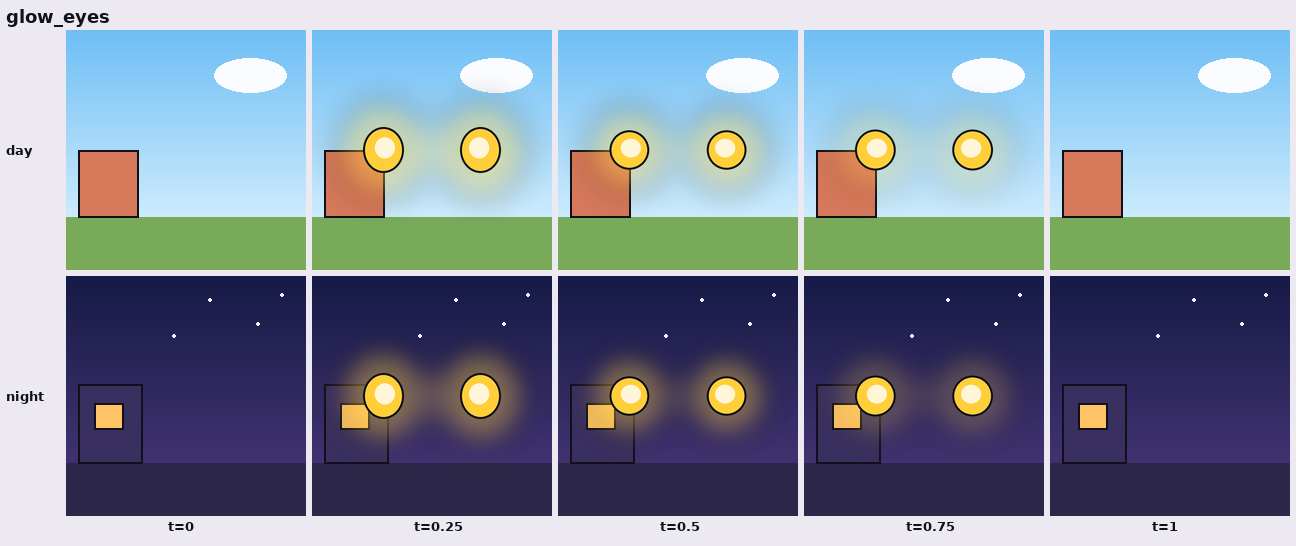
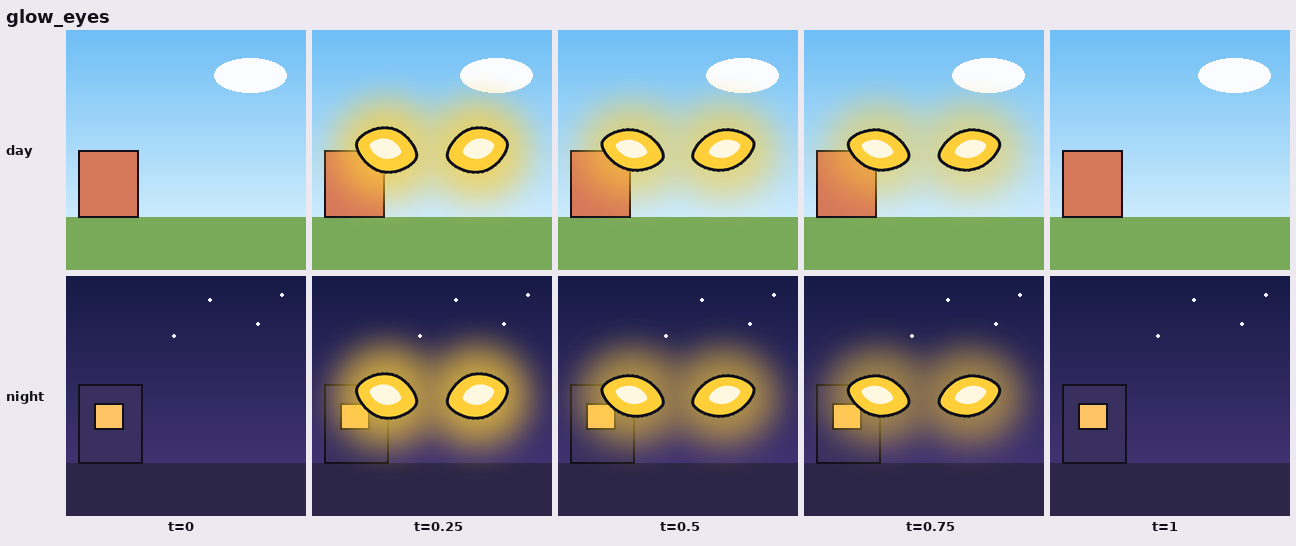
fx: review round 1 fixes (almond glow eyes, shrink-first fades, throbs, ordered speed lines, halo blur)
Claude-Session: https://claude.ai/code/session_01CUE843qry1EHijK4cNMuJ6

Changed region(s): [[0.2469, 0.5916, 0.8025, 0.8407], [0.2469, 0.1557, 0.8025, 0.3736]]

diff --git a/fx/fx.py b/fx/fx.py
@@ -170,7 +170,7 @@ def fx_explosion(t, n, u, e, kw):
     k = pop(t, 0.13, 0.34, pre=0.22, dip=0.12, s=1.4)
     cool = smooth(seg(t, 0.36, 0.78))                       # fire -> smoke
     rise = u * 0.32 * smooth(seg(t, 0.3, 1.0))
-    out = fade(t, 0.72, 1.0)
+    out = fade(t, 0.84, 1.0)
     body = mixc(col, smoke, cool)
     puffs = []
     m = 9
@@ -211,8 +211,9 @@ def fx_impact_star(t, n, u, e, kw):
     cx, cy = n / 2, n / 2
     k = pop(t, 0.1, 0.28, pre=0.3, dip=0.16, s=2.4)
     k *= 1 + 0.05 * math.sin(2 * math.pi * seg(t, 0.28, 0.6) * 2) * fade(t, 0.4, 0.6)   # settling throb
-    k *= shrink(t, 0.62, 1.0)
-    ang = kw.get('angle', 0) + 14 * (1 - out_cubic(seg(t, 0.1, 0.5))) - 6 * smooth(seg(t, 0.6, 1))
+    k *= 1 - 0.12 * smooth(seg(t, 0.35, 0.7))              # slow settle during the hold: never a frozen sprite
+    k *= shrink(t, 0.68, 0.98)
+    ang = kw.get('angle', 0) + 14 * (1 - out_cubic(seg(t, 0.1, 0.5))) - 12 * smooth(seg(t, 0.3, 1))
     jit = [rng.uniform(0.78, 1.0) for _ in range(pts_n)]
     outer = ('p', star_pts(cx, cy, pts_n, u * 0.78 * k, u * 0.36 * k, ang, jit), col)
     core = ('p', star_pts(cx, cy, pts_n, u * 0.42 * k, u * 0.2 * k, ang, jit), inner)
@@ -228,7 +229,7 @@ def fx_impact_star(t, n, u, e, kw):
             ticks.append(('s', [(cx + math.cos(a) * tl, cy + math.sin(a) * tl, w * 0.4),
                                 (cx + math.cos(a) * h, cy + math.sin(a) * h, w)], col))
     comp(im, group(n, ticks, e * 0.8))
-    comp(im, group(n, [outer], ink_w(e, k), details=[core], alpha=fade(t, 0.82, 1.0) * clamp(t / 0.03)))
+    comp(im, group(n, [outer], ink_w(e, k), details=[core], alpha=fade(t, 0.92, 1.0) * clamp(t / 0.03)))
     return im
 
 
@@ -266,7 +267,7 @@ def fx_speed_lines(t, n, u, e, kw):
     lines = []
     for i in range(cnt):
         y = cy + u * 0.85 * ((i + 0.5) / cnt * 2 - 1) + u * rng.uniform(-0.05, 0.05)
-        d0 = 0.03 + 0.25 * rng.random()
+        d0 = 0.03 + 0.12 * abs((i + 0.5) / cnt * 2 - 1) + 0.03 * rng.random()   # one ordered wave, middle first
         p = seg(t, d0, d0 + 0.68)
         if not 0 < p < 1: continue
         L = u * rng.uniform(1.1, 1.7)
@@ -275,7 +276,7 @@ def fx_speed_lines(t, n, u, e, kw):
         head = x0 - L * in_cubic(p)                         # tail end chases the head -> line grows then retracts
         tail = x0 - L * out_cubic(p) * 1.0
         a, b = (head, tail) if head > tail else (tail, head)
-        w = u * rng.uniform(0.05, 0.085) * bump(p) ** 0.5
+        w = u * rng.uniform(0.085, 0.12) * bump(p) ** 0.5
         lines.append(('s', [(b, y, w * 0.25), (a, y, w)], col))
     lay = group(n, lines, e)
     if ang: lay = lay.rotate(ang, resample=Image.BICUBIC, center=(cx * S, cy * S))
@@ -298,25 +299,27 @@ def fx_sweat_drop(t, n, u, e, kw):
     flip = -1 if kw.get('flip', False) else 1
     k = pop(t, 0.12, 0.3, pre=0.4, dip=0.3, s=2.0)
     wob = 0.06 * math.sin(2 * math.pi * 2.5 * seg(t, 0.3, 0.55)) * fade(t, 0.35, 0.55)
-    slide = in_quad(seg(t, 0.5, 0.92))
-    stretch = 0.3 * bump(seg(t, 0.55, 1.0))
-    sx = (1 + wob - 0.15 * stretch) * k * shrink(t, 0.78, 1.0)
-    sy = (1 - wob + stretch) * k * shrink(t, 0.78, 1.0)
+    creep = 0.12 * smooth(seg(t, 0.28, 0.45))               # slow creep while it gathers weight
+    slide = creep + 0.88 * in_quad(seg(t, 0.45, 0.9))
+    hold = 0.12 * bump(seg(t, 0.36, 0.48))                  # squash wide just before it lets go (anticipation)
+    stretch = 0.32 * bump(seg(t, 0.46, 1.0))
+    sx = (1 + wob + hold - 0.15 * stretch) * k * shrink(t, 0.8, 0.98)
+    sy = (1 - wob - hold + stretch) * k * shrink(t, 0.8, 0.98)
     cx = n / 2 + flip * u * 0.12 * slide
-    cy = n / 2 - u * 0.25 + u * 0.75 * slide
+    cy = n / 2 - u * 0.3 + u * 0.75 * slide
     r = u * 0.3
     body = ('p', teardrop(cx, cy, r, r * 2.2, ang=flip * -12 * slide, sx=sx, sy=sy), col)
     hl = ('e', cx - r * 0.38 * sx, cy - r * 0.15 * sy, r * 0.17 * sx, r * 0.3 * sy, light(col, 0.75))
-    return group(n, [body], ink_w(e, k), details=[hl], alpha=fade(t, 0.85, 1.0) * clamp(t / 0.03))
+    return group(n, [body], ink_w(e, k), details=[hl], alpha=fade(t, 0.92, 1.0) * clamp(t / 0.03))
 
 
 def fx_anger_vein(t, n, u, e, kw):
     col = rgb(kw.get('color', '#ff3b4a'))
     cx, cy = n / 2, n / 2
     k = pop(t, 0.1, 0.27, pre=0.35, dip=0.2, s=2.2)
-    for pk in (0.42, 0.62):                                 # two throbs
-        k *= 1 + 0.16 * bump(seg(t, pk - 0.06, pk + 0.08)) ** 2
-    k *= shrink(t, 0.76, 1.0)
+    for pk in (0.4, 0.55, 0.7):                             # three throbs through the hold
+        k *= 1 + 0.15 * bump(seg(t, pk - 0.05, pk + 0.07)) ** 2
+    k *= shrink(t, 0.78, 0.98)
     jit = 4 * math.sin(t * 60) * bump(seg(t, 0.3, 0.75))
     strokes = []
     R = u * 0.7 * k
@@ -329,39 +332,52 @@ def fx_anger_vein(t, n, u, e, kw):
         pts = bez(p0, p1, p2, 28)
         w = u * 0.17 * k
         strokes.append(('s', [(x, y, w * (0.55 + 0.45 * bump(i / 28))) for i, (x, y, _) in enumerate(pts)], col))
-    return group(n, strokes, ink_w(e, k), alpha=fade(t, 0.86, 1.0) * clamp(t / 0.03))
+    return group(n, strokes, ink_w(e, k), alpha=fade(t, 0.92, 1.0) * clamp(t / 0.03))
+
+
+def almond(cx, cy, rx, ry, ang, n=40):
+    """Eye shape: two arcs meeting in points at the corners (pointed ends read as eyes, not coins)."""
+    pts = []
+    for i in range(n):
+        a = 2 * math.pi * i / n
+        x = rx * math.cos(a); y = ry * math.sin(a) * (abs(math.sin(a)) ** 0.15) * (1 - 0.18 * math.cos(a) ** 2)
+        pts.append(rot(cx + x, cy + y, cx, cy, ang))
+    return pts
 
 
 def fx_glow_eyes(t, n, u, e, kw):
     col = rgb(kw.get('color', '#ffcf3a'))
-    gap = kw.get('gap', 0.45) * u
-    r = kw.get('radius', 0.17) * u
+    gap = kw.get('gap', 0.42) * u
+    r = kw.get('radius', 0.27) * u                          # half-width of each eye
+    slant = kw.get('slant', 14)                             # inner corners low = menacing; 0 = neutral, <0 = sad
     cx, cy = n / 2, n / 2
     # eyelid: a slit opens a little, blinks shut (anticipation), then snaps open with overshoot
     if t < 0.1: o = 0.2 * smooth(t / 0.1)
     elif t < 0.16: o = lerp(0.2, 0.06, smooth(seg(t, 0.1, 0.16)))
     else: o = lerp(0.06, 1, out_back(seg(t, 0.16, 0.34), 2.2))
-    o *= shrink(t, 0.76, 0.96) if t < 0.96 else 0
-    o = max(o, 0)
-    flick = 1 + 0.04 * math.sin(t * 47) * bump(seg(t, 0.34, 0.76))
-    glow = clamp(t / 0.12) * (0.55 + 0.45 * bump(seg(t, 0.22, 0.6)) + 0.25 * bump(seg(t, 0.16, 0.3))) * fade(t, 0.7, 1.0)
+    o = max(0.0, o * shrink(t, 0.78, 0.97)) if t < 0.97 else 0.0
+    pulse = bump(seg(t, 0.34, 0.76) * 3 % 1) * (0.34 < t < 0.76)   # three slow glow pulses during the hold
+    flick = 1 + 0.05 * pulse
+    glow = clamp(t / 0.12) * (0.7 + 0.3 * pulse + 0.3 * bump(seg(t, 0.16, 0.32))) * fade(t, 0.72, 0.98)
     im = new(n)
-    # halo: soft blurred colour around both eyes (warm by default, DRAWING_RULES 19)
     halo = new(n); hd = ImageDraw.Draw(halo)
-    for s in (-1, 1):
-        x = cx + s * gap
-        for f, a in ((2.6, 70), (1.7, 120)):
-            hr = r * f * (0.7 + 0.3 * o) * flick
-            hd.ellipse(((x - hr) * S, (cy - hr * (0.55 + 0.45 * o)) * S, (x + hr) * S, (cy + hr * (0.55 + 0.45 * o)) * S),
+    for s_ in (-1, 1):
+        x = cx + s_ * gap
+        for f, a in ((2.0, 110), (1.35, 190)):
+            hr = r * f * flick
+            hd.ellipse(((x - hr) * S, (cy - hr * (0.4 + 0.5 * o)) * S, (x + hr) * S, (cy + hr * (0.4 + 0.5 * o)) * S),
                        fill=col + (a,))
-    halo = halo.filter(ImageFilter.GaussianBlur(r * 0.7 * S))
+    # blur only the alpha and keep the colour solid: blurring straight RGBA drags in black from empty pixels (grey smudge)
+    mask = halo.getchannel('A').filter(ImageFilter.GaussianBlur(r * 0.45 * S))
+    halo = Image.new('RGBA', halo.size, col + (0,)); halo.putalpha(mask)
     comp(im, opacity(halo, glow))
     eyes, cores = [], []
-    for s in (-1, 1):
-        x = cx + s * gap
-        eyes.append(('e', x, cy, r * flick, r * o * flick, col))
-        cores.append(('e', x - r * 0.08 * s, cy - r * 0.1 * o, r * 0.55, r * 0.5 * o, light(col, 0.8)))
-    comp(im, group(n, eyes, ink_w(e, o, 0.25), details=cores, alpha=clamp(t / 0.03) * fade(t, 0.9, 1.0)))
+    for s_ in (-1, 1):
+        x = cx + s_ * gap
+        ang = -s_ * slant
+        eyes.append(('p', almond(x, cy, r * flick, r * 0.62 * o * flick, ang), col))
+        cores.append(('p', almond(x + s_ * r * 0.04, cy - r * 0.04 * o, r * 0.55, r * 0.3 * o, ang), light(col, 0.85)))
+    comp(im, group(n, eyes, ink_w(e, o, 0.25), details=cores, alpha=clamp(t / 0.03) * fade(t, 0.94, 1.0)))
     return im
 
 
@@ -479,13 +495,21 @@ def fx_question_mark(t, n, u, e, kw):
     pts += [(x, y, w) for x, y, _ in bez(pts[-1][:2], (cx + u * 0.04, cy - u * 0.05), (cx, cy + u * 0.16), 16)[1:]]
     pts[0] = pts[0][:2] + (w * 0.9,)
     piv = (cx, cy + u * 0.75)
+    lift += u * 0.04 * math.sin(2 * math.pi * 1.5 * seg(t, 0.35, 0.85)) * bump(seg(t, 0.35, 0.85))
+    grow = smooth(seg(t, 0.08, 0.16))                       # glyph grows out of a round blob
     stroke = ('s', xform(pts, *piv, sx, sy, ang, k, 0, lift), col)
     kd = pop(t, 0.18, 0.38, pre=0.3, dip=0.2, s=2.4) * shrink(t, 0.8, 1.0)  # the dot lands a beat later (overlap)
     dx, dy = xform([(cx, cy + u * 0.52)], *piv, sx, sy, ang, 1, 0, lift)[0]
     dot = ('c', dx, dy, u * 0.12 * kd, col)
     hl = [('c', *xform([(hook_c[0] - R * 0.7, hook_c[1] - R * 0.55)], *piv, sx, sy, ang, k, 0, lift)[0], w * 0.18 * k,
            light(col, 0.6))]
-    return group(n, [stroke, dot], ink_w(e, k), details=hl, alpha=fade(t, 0.86, 1.0) * clamp(t / 0.03))
+    blob = []
+    if grow < 1:                                            # anticipation: a squashed ball, not a comma
+        bk = pop(t, 0.12, 0.32, pre=0.35, dip=0.25, s=2.0) * (1 - grow)
+        blob = [('e', cx, cy - u * 0.05 + lift, u * 0.32 * bk * sx, u * 0.32 * bk * sy, col)]
+        stroke = ('s', [(x, y, w_ * grow) for x, y, w_ in stroke[1]], col)
+        dot = ('c', dot[1], dot[2], dot[3] * grow, col)
+    return group(n, blob + [stroke, dot], ink_w(e, k), details=hl if grow >= 1 else [], alpha=fade(t, 0.93, 1.0) * clamp(t / 0.03))
 
 
 def fx_exclaim(t, n, u, e, kw):
@@ -497,7 +521,7 @@ def fx_exclaim(t, n, u, e, kw):
     ang = kw.get('tilt', -6) + 5 * math.sin(t * 70) * bump(seg(t, 0.28, 0.55))
     lift = -u * 0.15 * smooth(seg(t, 0.72, 1.0))
     piv = (cx, cy + u * 0.75)
-    bar = [(cx, cy - u * 0.62, u * 0.3), (cx, cy - u * 0.25, u * 0.24), (cx, cy + u * 0.18, u * 0.12)]
+    bar = [(cx, cy - u * 0.5, u * 0.28), (cx, cy - u * 0.15, u * 0.22), (cx, cy + u * 0.22, u * 0.11)]
     bar = ('s', xform(bar, *piv, sx, sy, ang, k, shake, lift), col)
     kd = pop(t, 0.16, 0.34, pre=0.3, dip=0.2, s=2.6) * shrink(t, 0.8, 1.0)
     dx, dy = xform([(cx, cy + u * 0.5)], *piv, sx, sy, ang, 1, shake, lift)[0]
@@ -515,7 +539,7 @@ def fx_exclaim(t, n, u, e, kw):
             ticks.append(('s', [(o[0] + math.cos(ar) * r0, o[1] + math.sin(ar) * r0, u * 0.03),
                                 (o[0] + math.cos(ar) * r1, o[1] + math.sin(ar) * r1, u * 0.08 * bump(p))], col))
     comp(im, group(n, ticks, e * 0.8))
-    comp(im, group(n, [bar, dot], ink_w(e, k), details=hl, alpha=fade(t, 0.86, 1.0) * clamp(t / 0.03)))
+    comp(im, group(n, [bar, dot], ink_w(e, k), details=hl, alpha=fade(t, 0.93, 1.0) * clamp(t / 0.03)))
     return im
 
 
@@ -545,17 +569,17 @@ def fx_music_note(t, n, u, e, kw):
     cx, by = n / 2, n / 2 + u * 0.7                        # notes rise from bottom centre (a mouth / speaker)
     im = new(n)
     for i in range(cnt):
-        d0 = 0.02 + 0.3 * i / max(1, cnt - 1); life = 0.66
+        d0 = 0.02 + 0.32 * i / max(1, cnt - 1); life = 0.64
         p = seg(t, d0, d0 + life)
         if not 0 < p < 1: continue
-        k = pop(p, 0.14, 0.36, pre=0.35, dip=0.25, s=2.0) * shrink(p, 0.7, 1.0)
+        k = pop(p, 0.14, 0.36, pre=0.35, dip=0.25, s=2.0) * shrink(p, 0.66, 0.98)
         side = (-1) ** i
-        x = cx + side * u * 0.2 + side * u * 0.25 * smooth(p) + u * 0.12 * math.sin(p * 2 * math.pi * 1.2 + i)
+        x = cx + side * u * (0.18 + 0.22 * (i // 2)) + side * u * 0.42 * smooth(p) + u * 0.08 * math.sin(p * 2 * math.pi * 1.2 + i)
         y = by - u * 1.1 * out_quad(p)
         ang = 14 * math.sin(p * 2 * math.pi * 1.2 + i + 1)
         h = u * 0.55 * k
         shp = note_shapes(x - h * 0.2, y, h, ang, rgb(cols[i % len(cols)]), double=(i % 2 == 1))
-        comp(im, group(n, shp, ink_w(e, k), alpha=fade(p, 0.8, 1.0)))
+        comp(im, group(n, shp, ink_w(e, k), alpha=fade(p, 0.9, 1.0)))
     return im
 
 
@@ -580,7 +604,7 @@ def render(name, t, size=512, **kw):
     if name not in NAMES: raise KeyError(f'unknown fx {name!r}; known: {", ".join(NAMES)}')
     n = int(size); t = clamp(float(t))
     u = n / 2 * 0.9 * kw.get('scale', 1.0)
-    e = kw.get('line', max(2.0, min(4.0, n / 160)))
+    e = kw.get('line', 3.0 if n >= 96 else max(1.5, n / 32))   # same px as the stickman's ~3 px line
     im = NAMES[name][0](t, n, u, e, kw)
     return im.resize((n, n), Image.LANCZOS)
 
